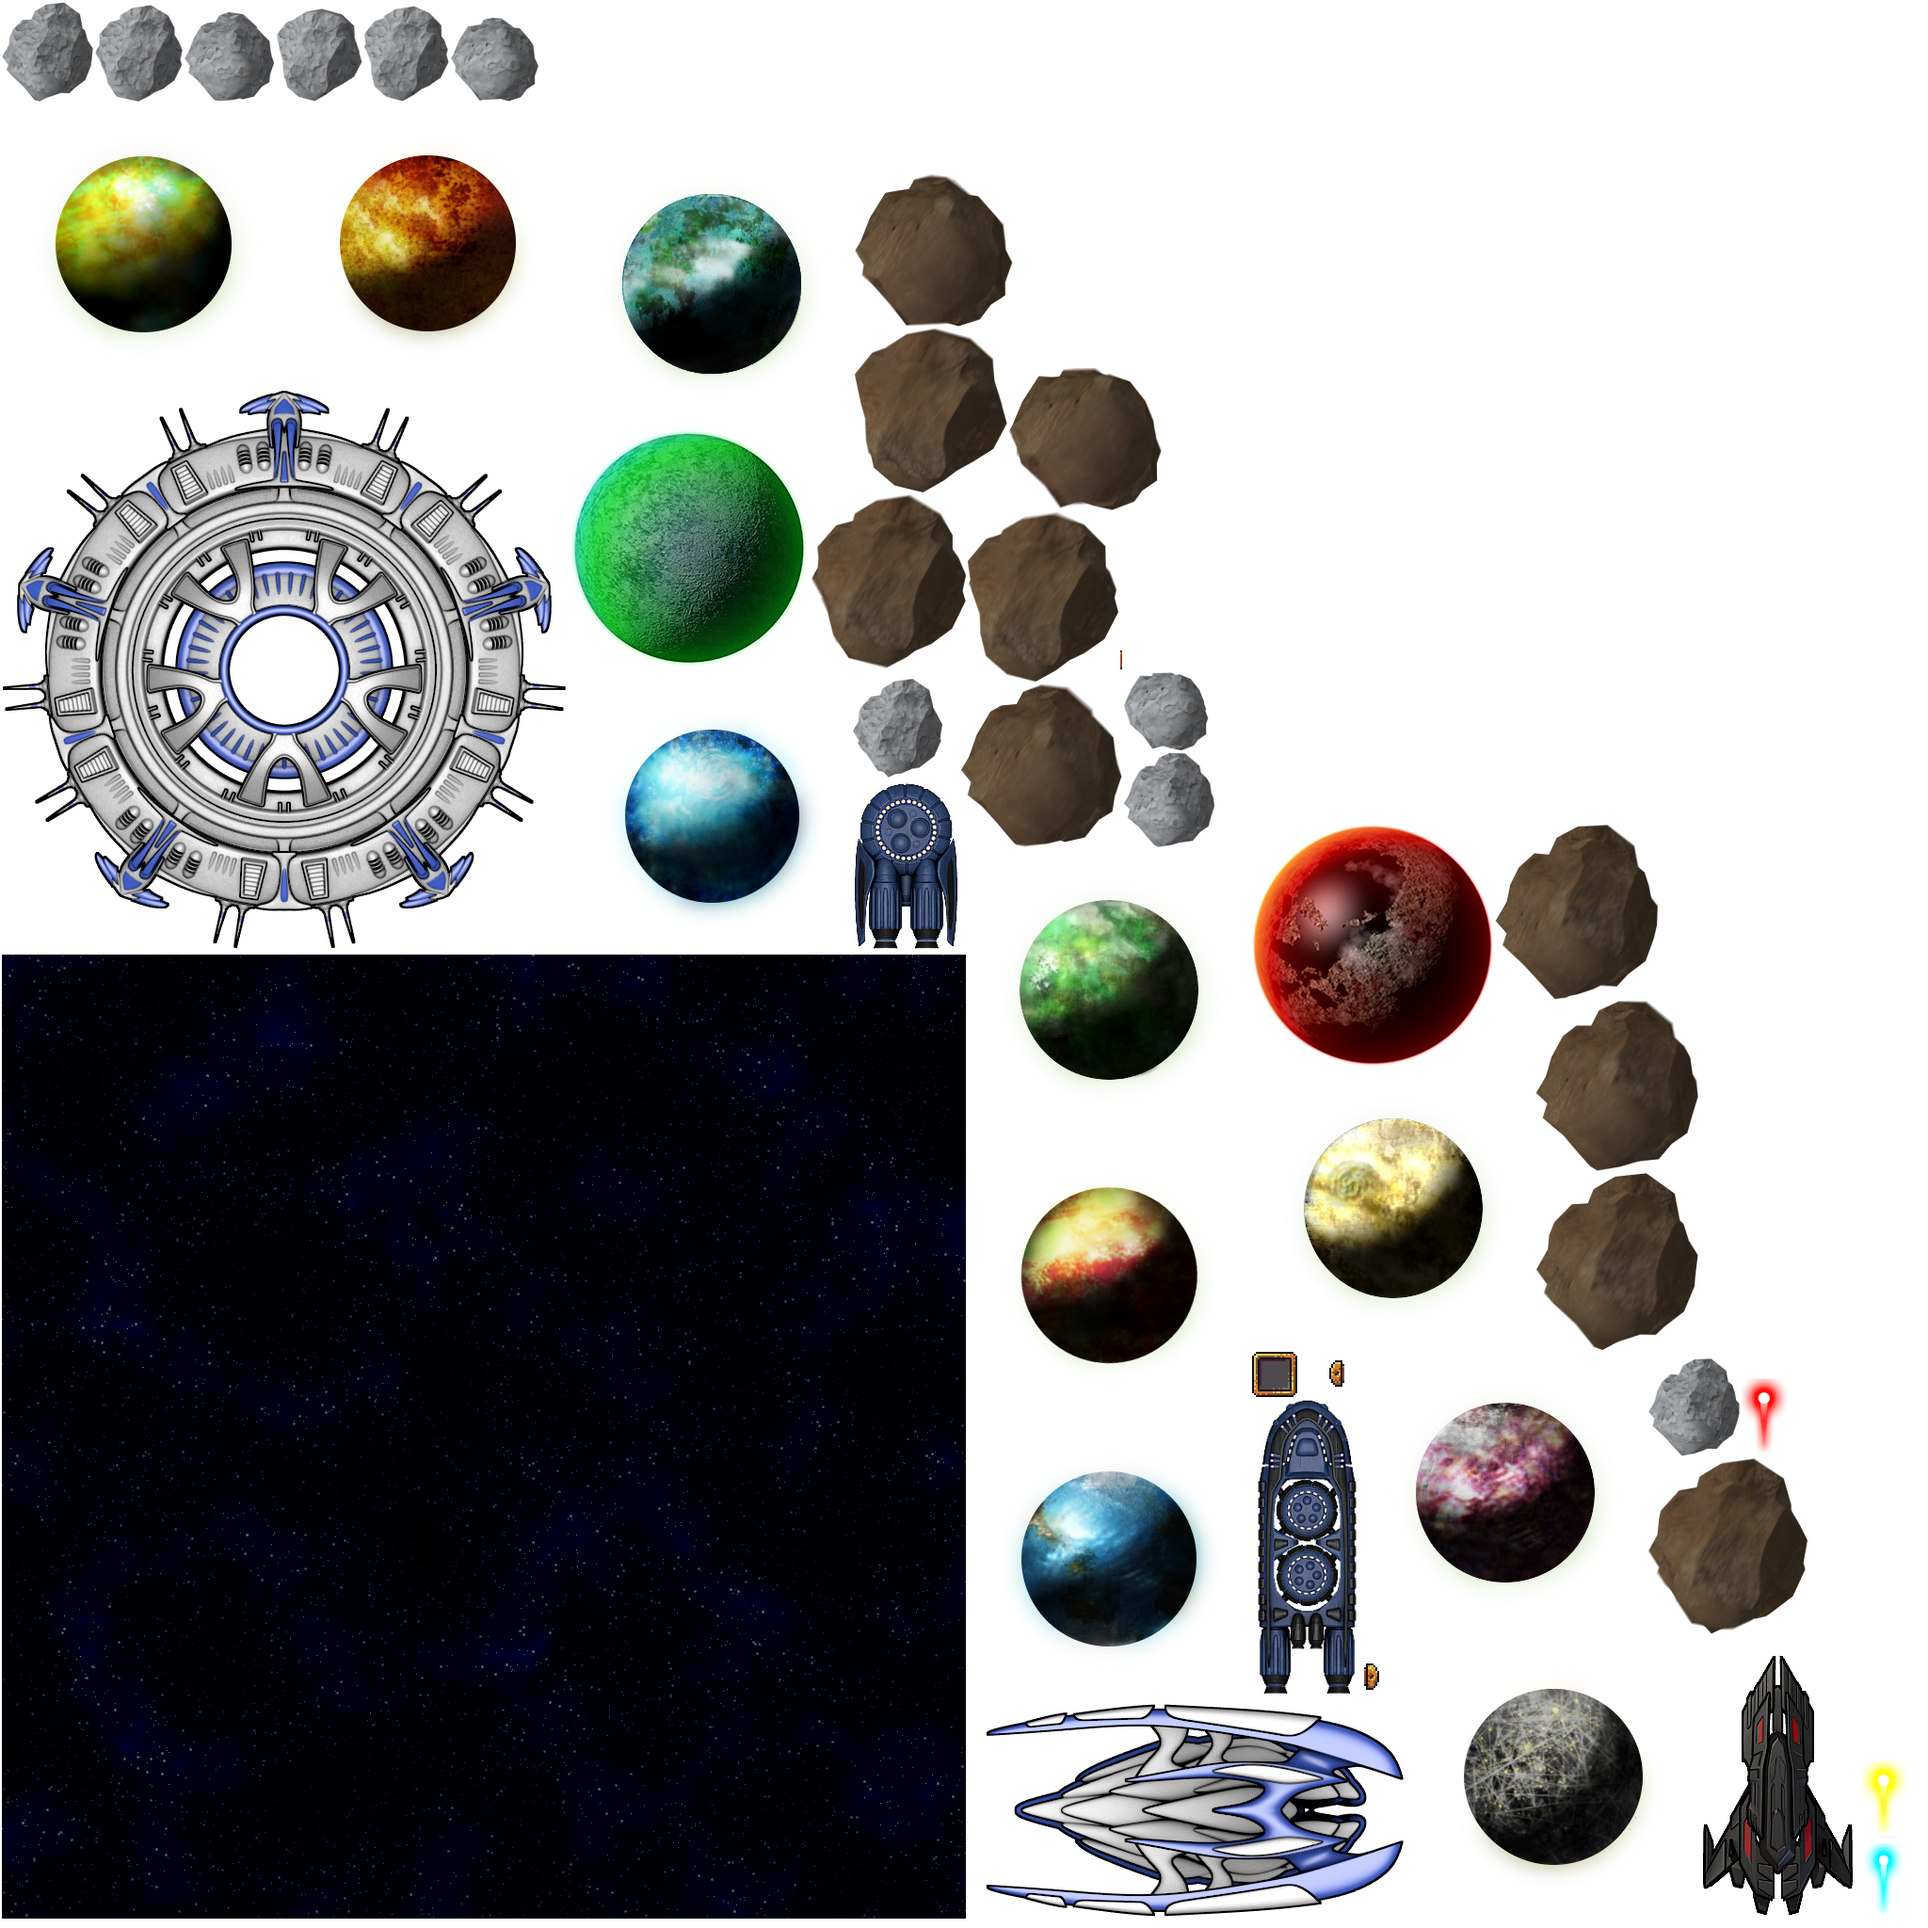
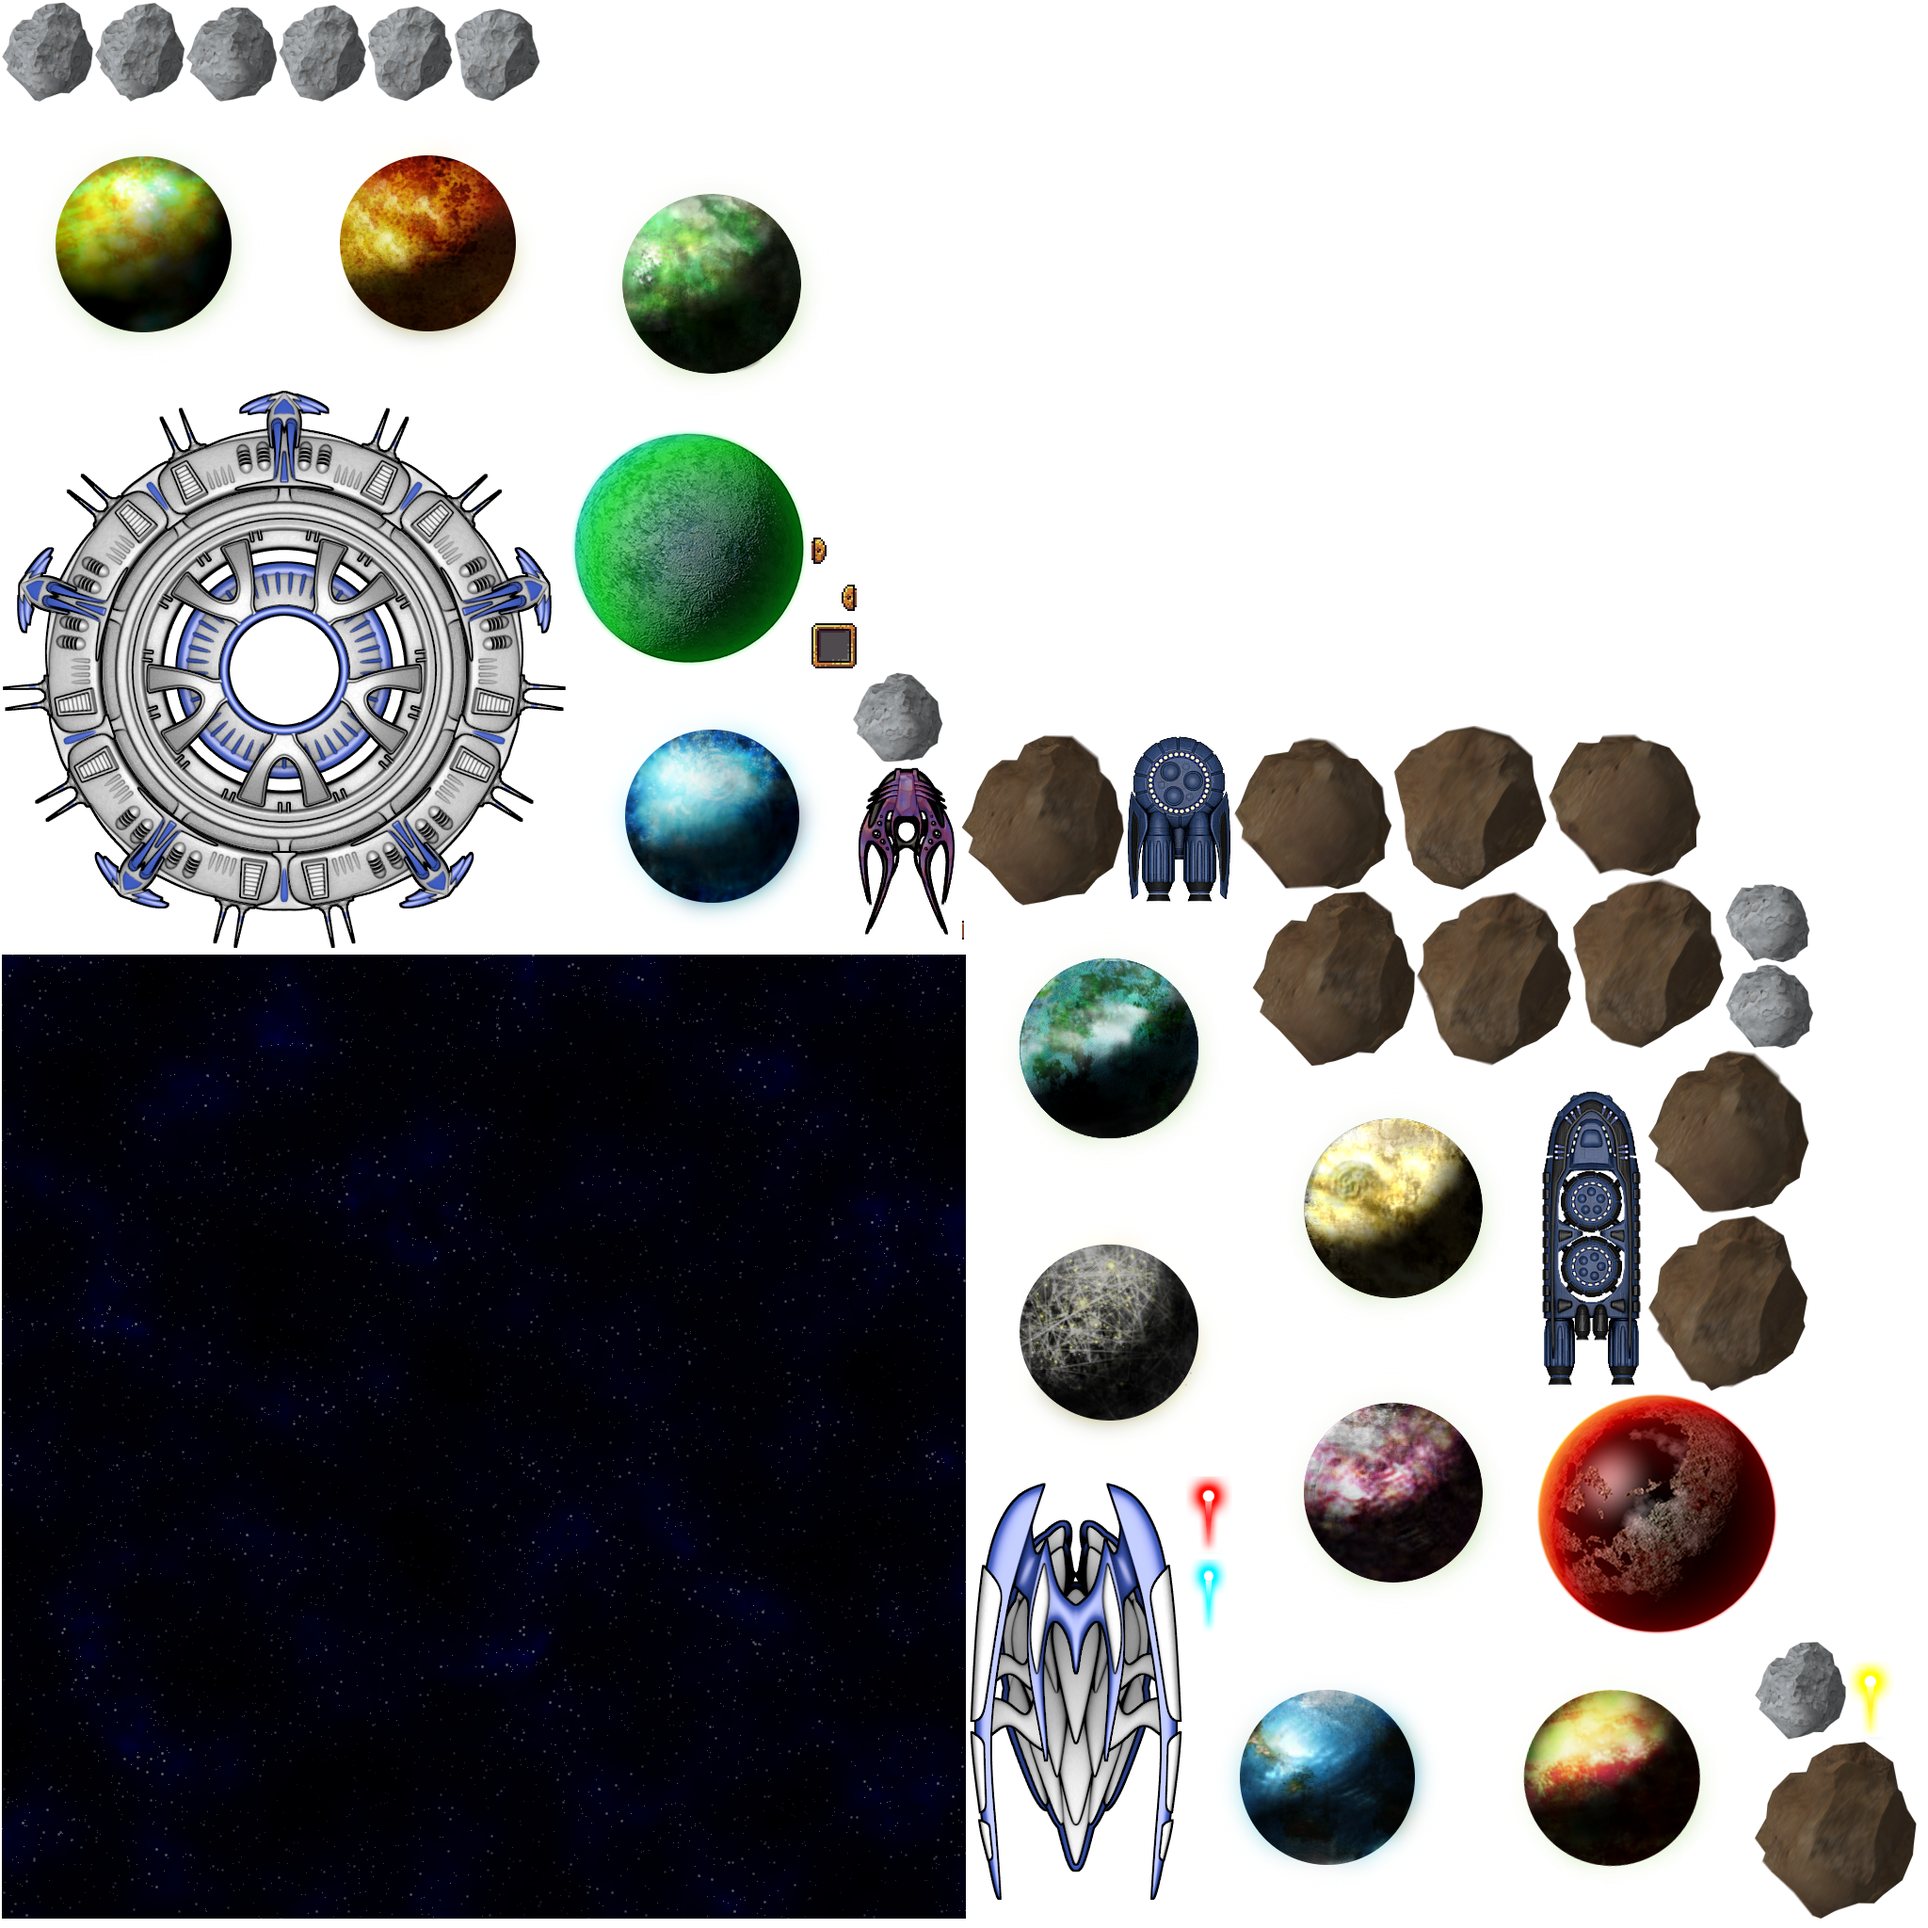
Added new enemy ship

Changed region(s): [[0.4062, 0.0938, 1.0, 1.0], [0.0625, 0.0, 0.2812, 0.0625], [0.3125, 0.0938, 0.4062, 0.1875]]

diff --git a/core/src/com/gdxjam/utils/WorldGenerator.java b/core/src/com/gdxjam/utils/WorldGenerator.java
@@ -1,4 +1,3 @@
-
 package com.gdxjam.utils;
 
 import java.util.Random;
@@ -9,8 +8,11 @@ import com.badlogic.gdx.math.Vector2;
 import com.gdxjam.Assets;
 import com.gdxjam.components.FactionComponent.Faction;
 
-/** @author Torin Wiebelt (Twiebs) Generates world bounds Generates the game world by creating an asteroid field using fBm applied
- *         OpenSimplexNoise Populates the world with entities. */
+/**
+ * @author Torin Wiebelt (Twiebs) Generates world bounds Generates the game
+ *         world by creating an asteroid field using fBm applied
+ *         OpenSimplexNoise Populates the world with entities.
+ */
 
 public class WorldGenerator {
 
@@ -22,82 +24,107 @@ public class WorldGenerator {
 	private float radius;
 	private WorldGeneratorParameter param;
 
-	public WorldGenerator (int width, int height, long seed) {
+	public WorldGenerator(int width, int height, long seed) {
 		this(width, height, seed, new WorldGeneratorParameter());
 	}
 
-	public WorldGenerator (int width, int height, long seed, WorldGeneratorParameter param) {
+	public WorldGenerator(int width, int height, long seed,
+			WorldGeneratorParameter param) {
 		this.width = width;
-		this.height = height + 1;	//Plus one hides missing band at the top of the world
+		this.height = height + 1; // Plus one hides missing band at the top of
+									// the world
 		radius = width * 0.5f;
 		noise = new OpenSimplexNoise(seed);
 		rng = new Random(seed);
 		this.param = param;
 	}
 
-	public void generate () {
+	public void generate() {
 		createWorldBounds();
 		generateAsteroidField();
-		if(param.generateBackground){
+		if (param.generateBackground) {
 			createBackground();
 		}
 		populateWorld();
 	}
 
-	public void createWorldBounds () {
+	public void createWorldBounds() {
 		EntityFactory.createBoundry(new Vector2(0, 0), new Vector2(0, height));
-		EntityFactory.createBoundry(new Vector2(0, height), new Vector2(width, height));
-		EntityFactory.createBoundry(new Vector2(width, height), new Vector2(width, 0));
+		EntityFactory.createBoundry(new Vector2(0, height), new Vector2(width,
+				height));
+		EntityFactory.createBoundry(new Vector2(width, height), new Vector2(
+				width, 0));
 		EntityFactory.createBoundry(new Vector2(width, 0), new Vector2(0, 0));
 	}
 
-	public void populateWorld () {
+	public void populateWorld() {
 		Vector2 center = new Vector2(width * 0.5f, height * 0.5f);
 		EntityFactory.createMothership(center);
-		
+
 		float distance = 16.0f;
 
-		float seperationAngle = 360.0f / (float)param.initalSquads;
-		//float initalAngle = rng.nextInt(359);
+		float seperationAngle = 360.0f / (float) param.initalSquads;
+		// float initalAngle = rng.nextInt(359);
 		float initalAngle = 18.0f;
-		
-		for(int i = 0; i < param.initalSquads; i++){
-			Vector2 angleVec = new Vector2(distance, 0.0f).setAngle(initalAngle + seperationAngle * i);
+
+		for (int i = 0; i < param.initalSquads; i++) {
+			Vector2 angleVec = new Vector2(distance, 0.0f).setAngle(initalAngle
+					+ seperationAngle * i);
 			Vector2 position = center.cpy().add(angleVec);
 			createSquad(position);
 		}
+
+		createSquad(center.cpy().add(16, 16), Faction.Enemy);
 	}
-	
-	public void createBackground(){
-		EntityFactory.createBackgroundArt(new Vector2(0, 0), Constants.VIEWPORT_WIDTH, Constants.VIEWPORT_HEIGHT, Assets.space.background, 0);
-		
+
+	public void createBackground() {
+		EntityFactory.createBackgroundArt(new Vector2(0, 0),
+				Constants.VIEWPORT_WIDTH, Constants.VIEWPORT_HEIGHT,
+				Assets.space.background, 0);
+
 		int planetCount = (int) param.numberOfPlanets.random(rng.nextFloat());
-		for(int i = 0; i < planetCount; i++){
+		for (int i = 0; i < planetCount; i++) {
 			float radius = param.planetRadius.random(rng.nextFloat());
 			int index = (int) (Assets.space.planets.size * rng.nextFloat());
-			EntityFactory.createBackgroundArt(new Vector2(Constants.VIEWPORT_WIDTH * rng.nextFloat(), Constants.VIEWPORT_HEIGHT * rng.nextFloat()), radius, radius,
-				Assets.space.planets.get(index), 1);
+			EntityFactory.createBackgroundArt(new Vector2(
+					Constants.VIEWPORT_WIDTH * rng.nextFloat(),
+					Constants.VIEWPORT_HEIGHT * rng.nextFloat()), radius,
+					radius, Assets.space.planets.get(index), 1);
 		}
 	}
-	
-	public void createSquad(Vector2 position){
+
+	public void createSquad(Vector2 position) {
 		Entity squad = EntityFactory.createSquad(position, Faction.Player);
-		int posX = (int)position.x;
-		int posY = (int)position.y;
-		for(int x = -1; x < 2; x++) {
-			for (int y = -1; y < 2; y++){
-				Entity entity = EntityFactory.createUnit(new Vector2(posX + x, posY + y), Faction.Player);
+		int posX = (int) position.x;
+		int posY = (int) position.y;
+		for (int x = -1; x < 2; x++) {
+			for (int y = -1; y < 2; y++) {
+				Entity entity = EntityFactory.createUnit(new Vector2(posX + x,
+						posY + y), Faction.Player);
 				EntityUtils.addToSquad(entity, squad);
 			}
 		}
 	}
 
-	public void generateAsteroidField () {
+	public void createSquad(Vector2 position, Faction faction) {
+		Entity squad = EntityFactory.createSquad(position, faction);
+		int posX = (int) position.x;
+		int posY = (int) position.y;
+		for (int x = -1; x < 2; x++) {
+			for (int y = -1; y < 2; y++) {
+				Entity entity = EntityFactory.createUnit(new Vector2(posX + x,
+						posY + y), faction);
+				EntityUtils.addToSquad(entity, squad);
+			}
+		}
+	}
+
+	public void generateAsteroidField() {
 		float[][] heightMap = generateHeightMap();
 		generateAsteroids(heightMap);
 	}
 
-	private float[][] generateHeightMap () {
+	private float[][] generateHeightMap() {
 		float[][] heightMap = new float[width][height];
 		for (int x = 0; x < width; x++) {
 			for (int y = 0; y < height; y++) {
@@ -110,16 +137,23 @@ public class WorldGenerator {
 		return heightMap;
 	}
 
-	/** Evaluates a x,y pair with fBm applied OpenSimplexNoise. Applies a radial mask to the value.
-	 * @param x The x coord
-	 * @param y The y coord
-	 * @return The heightmap value */
-	private float eval (int x, int y) {
+	/**
+	 * Evaluates a x,y pair with fBm applied OpenSimplexNoise. Applies a radial
+	 * mask to the value.
+	 * 
+	 * @param x
+	 *            The x coord
+	 * @param y
+	 *            The y coord
+	 * @return The heightmap value
+	 */
+	private float eval(int x, int y) {
 		float total = 0.0f;
 		float frequency = param.frequency;
 		float amplitude = param.gain;
 		for (int i = 0; i < param.octaves; i++) {
-			total += noise.eval((float)x * frequency, (float)y * frequency) * amplitude;
+			total += noise.eval((float) x * frequency, (float) y * frequency)
+					* amplitude;
 			frequency *= param.lacunarity;
 			amplitude *= param.gain;
 		}
@@ -129,43 +163,50 @@ public class WorldGenerator {
 
 		float centerToX = x - radius;
 		float centerToY = y - radius;
-		float distanceToCenter = Math.abs((float)Math.sqrt(centerToX * centerToX + centerToY * centerToY));
+		float distanceToCenter = Math.abs((float) Math.sqrt(centerToX
+				* centerToX + centerToY * centerToY));
 		float distanceScalar = (distanceToCenter / radius);
 
 		total -= distanceScalar;
 
 		// Forces the center to be clear and the edges to be closed
-// if(distanceScalar <= 0.45f ){
-// total = 1;
-// } else if(distanceToCenter / radius >= 0.9f){
-// total -= distanceScalar;
-// }
+		// if(distanceScalar <= 0.45f ){
+		// total = 1;
+		// } else if(distanceToCenter / radius >= 0.9f){
+		// total -= distanceScalar;
+		// }
 
 		total = MathUtils.clamp(total, -1.0f, 1.0f);
 		return total;
 	}
 
-	/** Generates asteroids using natural scattering and values from the heightmap.
-	 * @param heightMap */
+	/**
+	 * Generates asteroids using natural scattering and values from the
+	 * heightmap.
+	 * 
+	 * @param heightMap
+	 */
 
-	private void generateAsteroids (float[][] heightMap) {
-		int totalRows = (int)((width - 1) * param.asteroidDensity);
-		int totalCols = (int)((height - 1) * param.asteroidDensity);
+	private void generateAsteroids(float[][] heightMap) {
+		int totalRows = (int) ((width - 1) * param.asteroidDensity);
+		int totalCols = (int) ((height - 1) * param.asteroidDensity);
 
-		float rowSpacing = (float)width / (float)totalRows;
-		float colSpacing = (float)height / (float)totalCols;
+		float rowSpacing = (float) width / (float) totalRows;
+		float colSpacing = (float) height / (float) totalCols;
 
 		for (int row = 0; row < totalRows; row++) {
 			for (int col = 0; col < totalCols; col++) {
-				float heightValue = heightMap[(int)(row * rowSpacing)][(int)(col * colSpacing)];
+				float heightValue = heightMap[(int) (row * rowSpacing)][(int) (col * colSpacing)];
 				if (heightValue <= param.heightThreshold) {
-					
+
 					Vector2 pos = new Vector2((row * rowSpacing)
-						+ (randomSign() * param.asteroidScattering) * rowSpacing, (col * colSpacing)
-						+ (randomSign() * param.asteroidScattering) * colSpacing);
+							+ (randomSign() * param.asteroidScattering)
+							* rowSpacing, (col * colSpacing)
+							+ (randomSign() * param.asteroidScattering)
+							* colSpacing);
 
 					float radius = param.asteroidRadius.random(rng.nextFloat());
-					if(rng.nextFloat() <= param.asteroidExtraScalingChance){
+					if (rng.nextFloat() <= param.asteroidExtraScalingChance) {
 						radius += param.asteroidRadius.max * 2;
 					}
 					EntityFactory.createAsteroid(pos, radius);
@@ -174,8 +215,8 @@ public class WorldGenerator {
 
 		}
 	}
-	
-	private float randomSign(){
+
+	private float randomSign() {
 		return rng.nextBoolean() ? 1 : -1;
 	}
 
@@ -193,10 +234,10 @@ public class WorldGenerator {
 
 		public int initalSquads = 5;
 		public int squadMembers = 9;
-		
+
 		public Range numberOfPlanets = new Range(1, 1);
 		public Range planetRadius = new Range(4, 10);
-		
+
 		public boolean generateBackground = true;
 	}
 

diff --git a/core/src/com/gdxjam/components/FactionComponent.java b/core/src/com/gdxjam/components/FactionComponent.java
@@ -2,13 +2,12 @@ package com.gdxjam.components;
 
 import com.badlogic.ashley.core.Component;
 
-public class FactionComponent extends Component{
-	
-	public enum Faction{
-		Player,
-		Enemy;
+public class FactionComponent extends Component {
+
+	public enum Faction {
+		Player, Enemy, Neutral;
 	}
-	
+
 	public Faction faction;
 
 }

diff --git a/core/src/com/gdxjam/Assets.java b/core/src/com/gdxjam/Assets.java
@@ -13,7 +13,7 @@ public class Assets implements Disposable {
 
 	public static final String TAG = Assets.class.getSimpleName();
 
-	public static boolean rebuildAtlas = false;
+	public static boolean rebuildAtlas = true;
 	public static boolean drawDebugOutline = false;
 
 	public static AssetManager manager;
